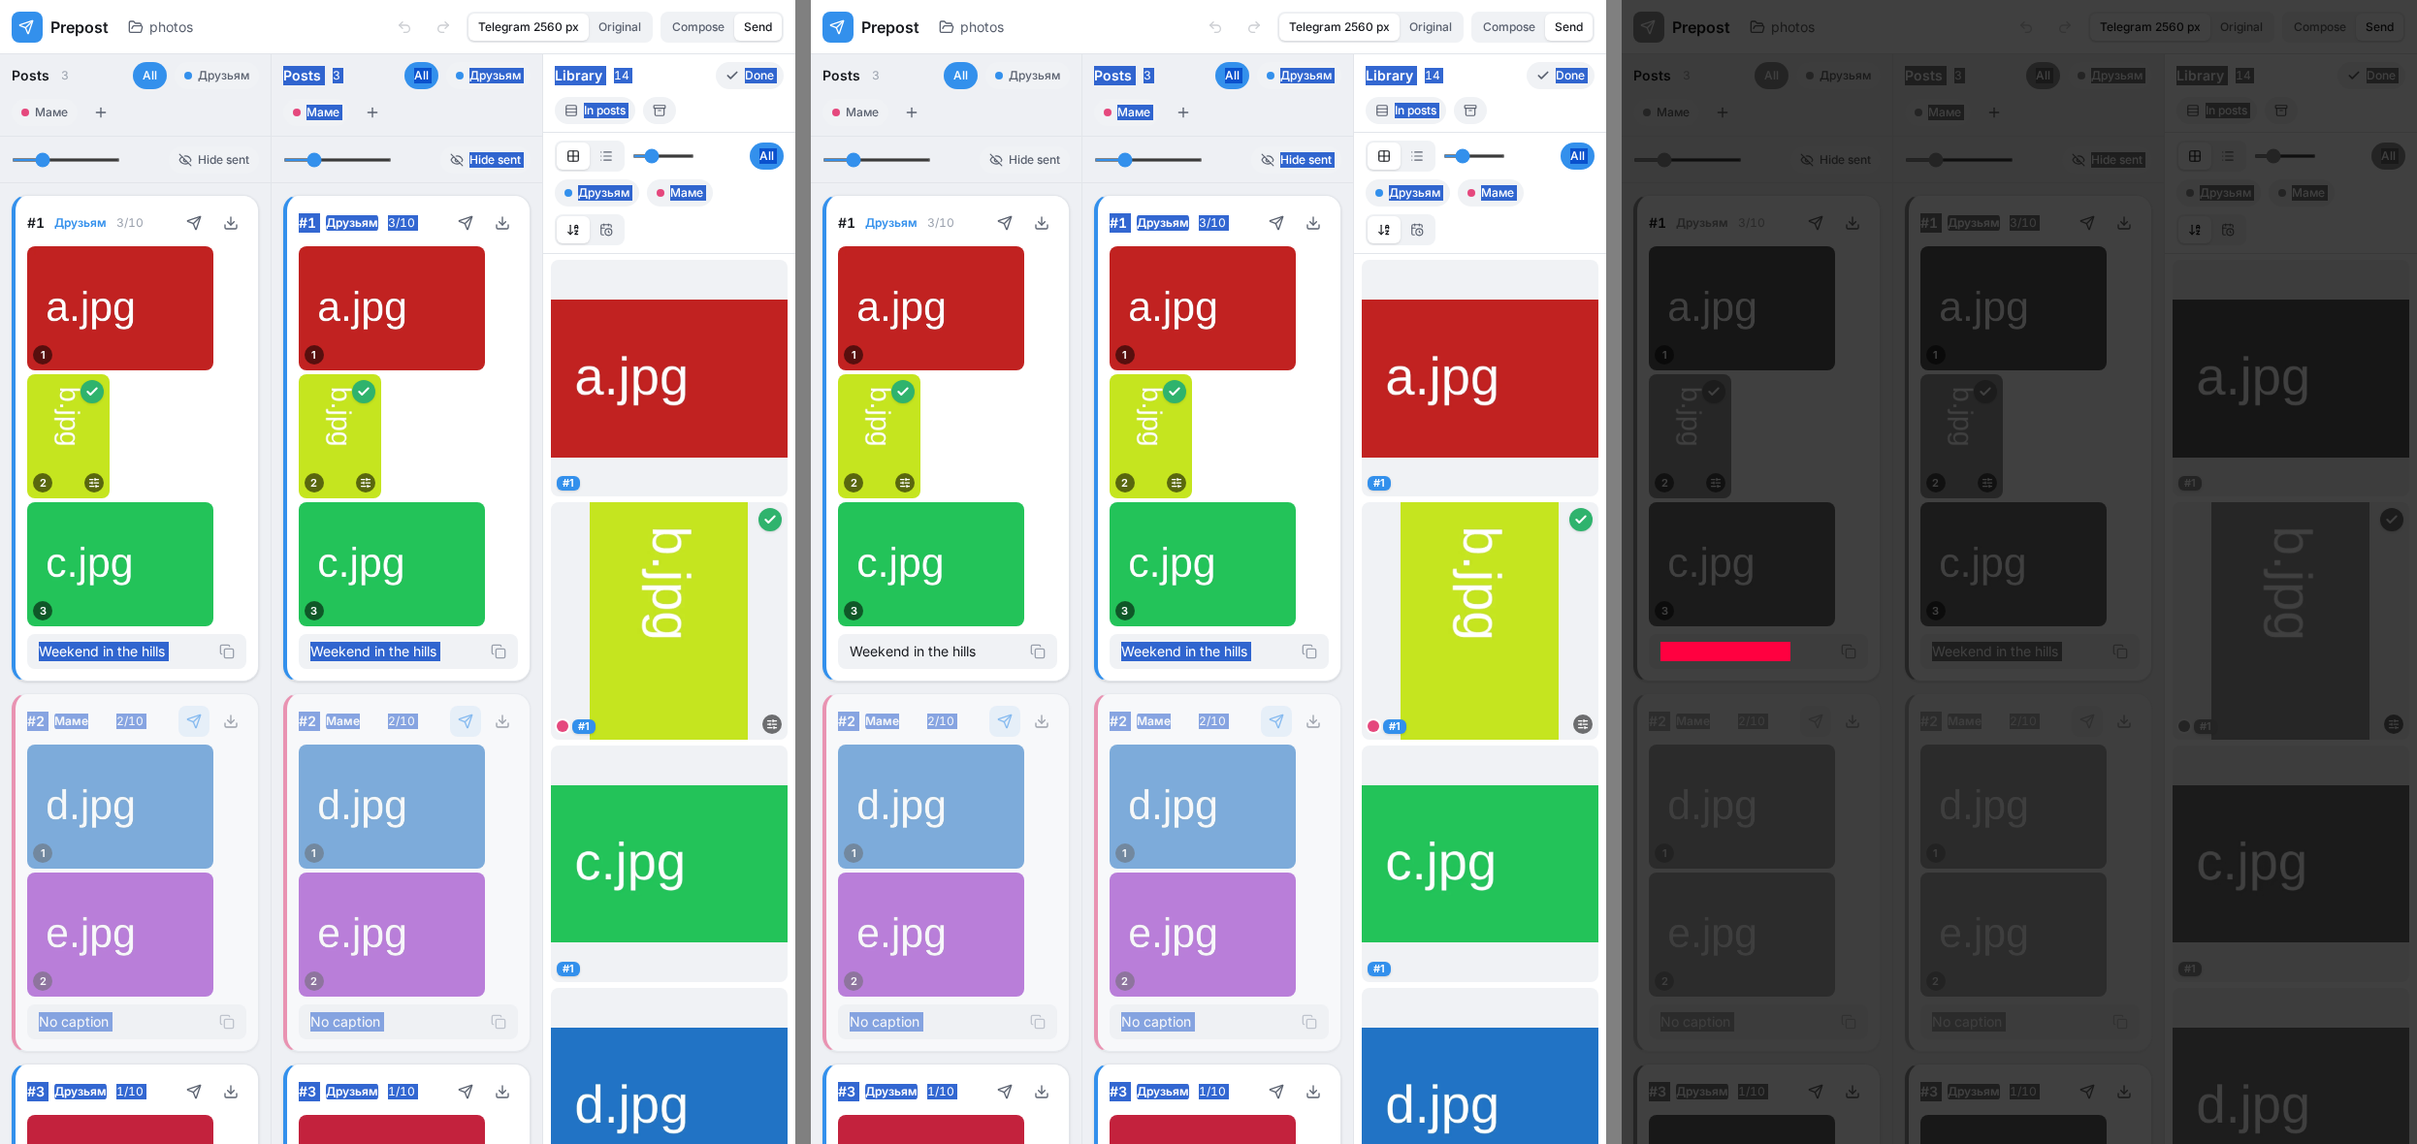
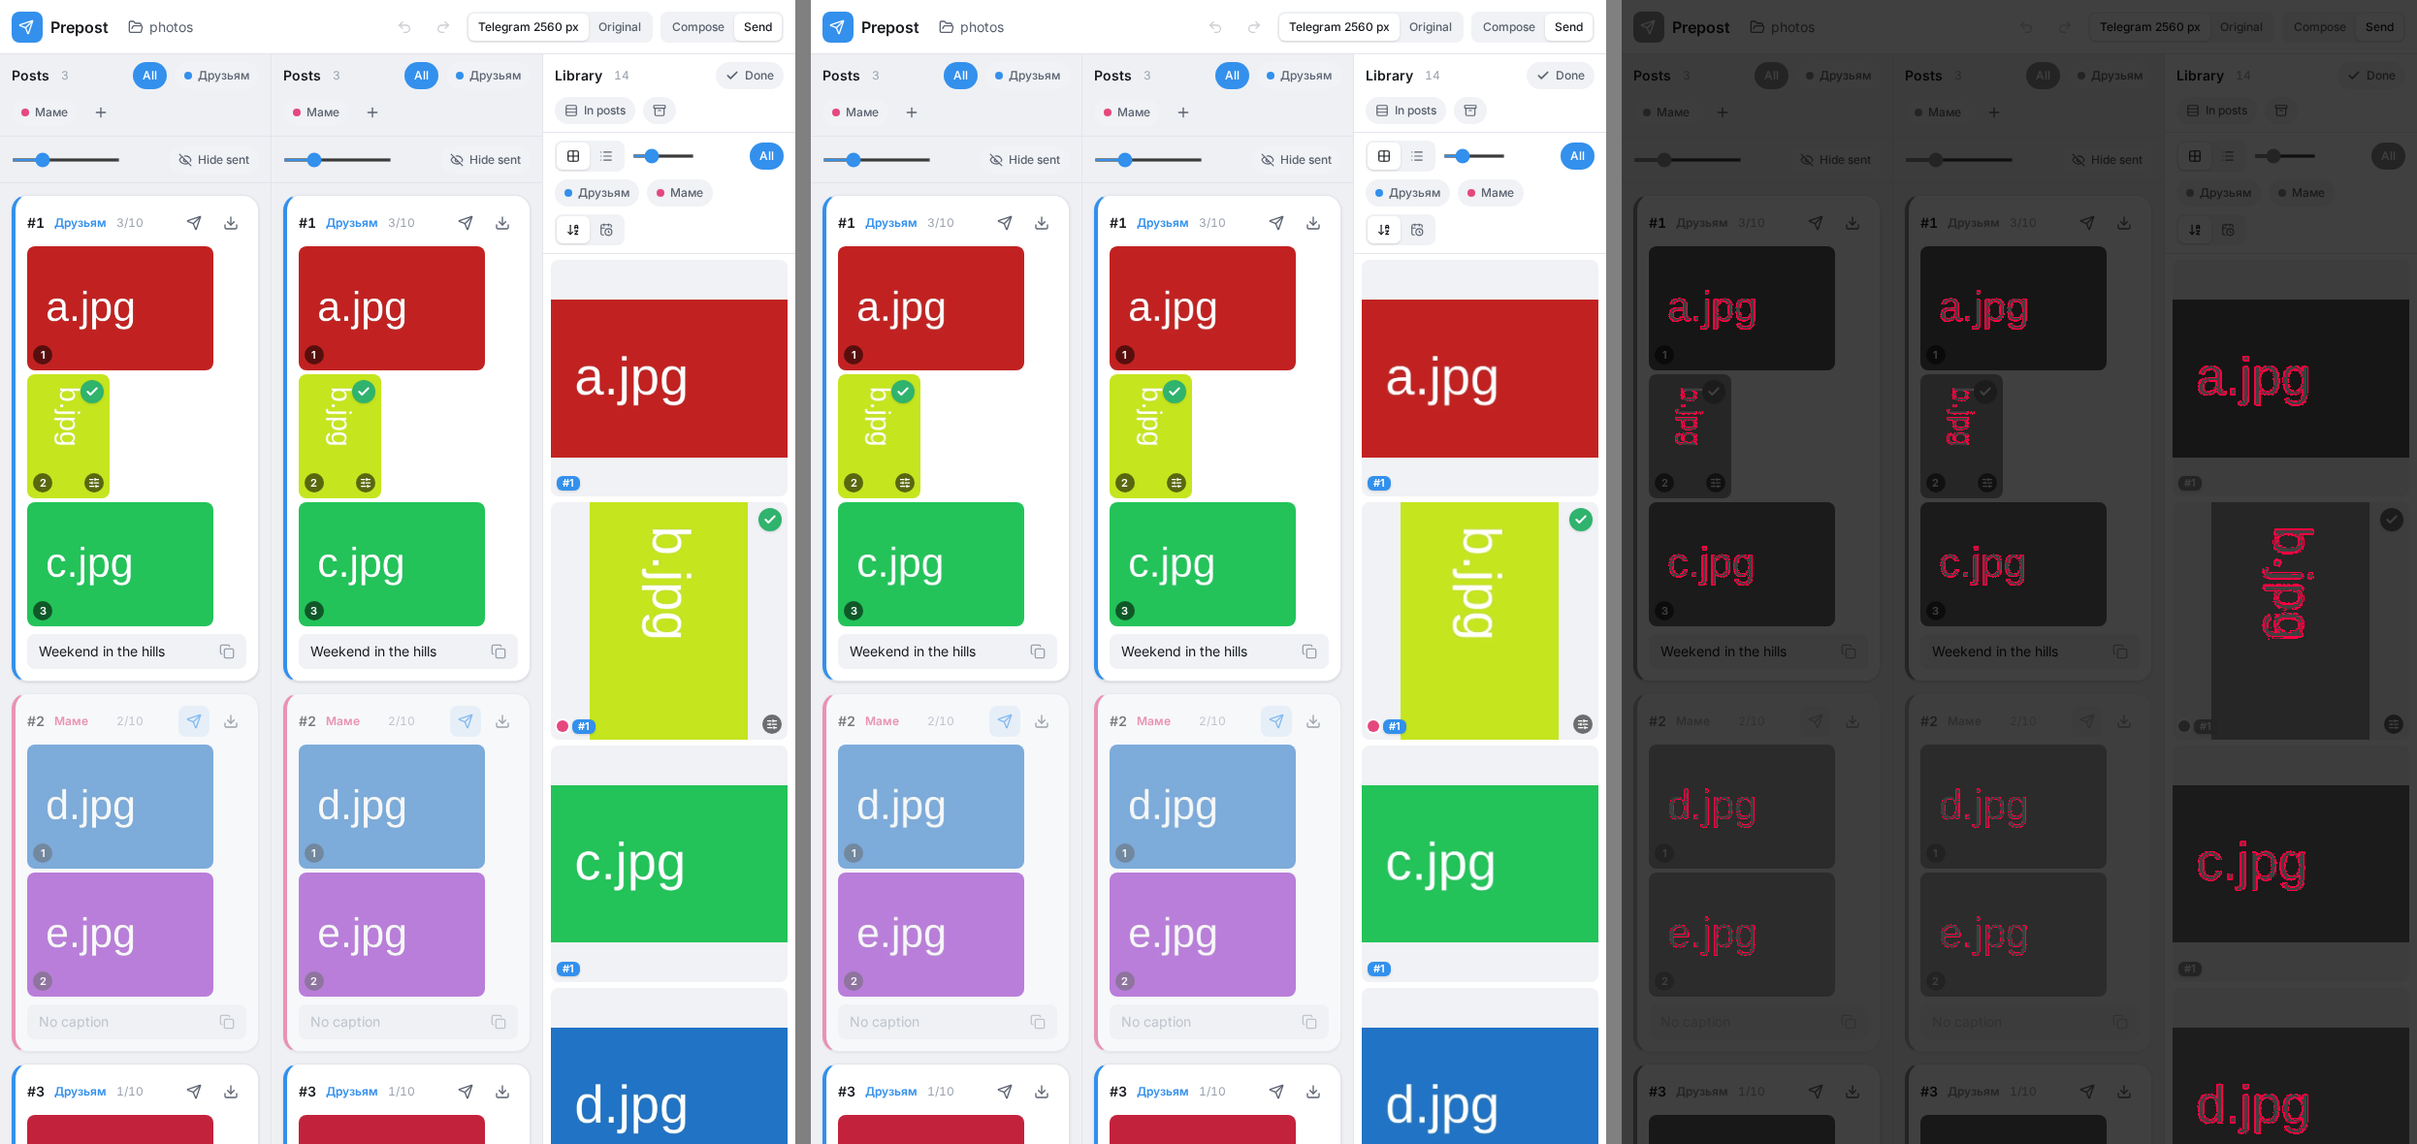
📝 Record the regressions' causes, the stress pass and the release build

diff --git a/docs/parity.md b/docs/parity.md
@@ -9,55 +9,95 @@ TGPREP_RUNS=5 node node_modules/@playwright/test/cli.js test -c tests/parity/pla
 
 Results land in `~/.cache/tgprep-parity/perf/*.md`.
 
-## Interactions (2592a8e)
+## Interactions
 
-| | TS | Rust |
-|---|---|---|
-| open folder → visible thumbnails (not cached) | 7004 / 7855 | 1870 / 2280 |
-| open folder → visible thumbnails (cached) | 210 / 263 | 176 / 244 |
-| scroll one screen → thumbnails | 26 / 31 | 31 / 61 |
-| drag pointer move → drop highlight | 11 / 16 | 11 / 17 |
-| viewer open → full-resolution frame | 340 / 562 | 359 / 628 |
-| edit slider → frame | 11 / 12 | 15 / 27 |
-| send mode click → photo copied | 266 / 317 | 274 / 320 |
+Before: 2592a8e, quiet machine, 5 runs. After: 5ebb927, 4 runs; other work kept the load average at 4–7, which is why TS's own numbers moved (its uncached open swung from 7 s to 27 s).
 
-- Open: TS mounts about 144 tiles in its first render (the virtualizer has no scroller size yet), queues all their thumbnails and pops them last-in first-out, so the visible ones finish last. Rust asks only for the tiles on screen, then reads ahead (8 screens below, 2 above, nearest first) with idle workers.
-- Scroll: TS's 144 accidental thumbnails cover the five scrolled screens; Rust has to have read them ahead (the harness waits 8 s after opening). Scrolling past what is prepared costs both builds the decode time (about 20 thumbnails a second on 4 workers).
-- Edit slider: the open question. Outside the harness (same profile, same sequence: scrolls, five viewer opens, then 12 slider steps) Rust finishes the input task in 0.5 ms and the next frame 5–17 ms later, like TS; inside the harness Rust's median is a frame longer with occasional 300–565 ms samples. Not explained yet.
+| | TS before | Rust before | TS after | Rust after |
+|---|---|---|---|---|
+| open folder → visible thumbnails (not cached) | 7004 / 7855 | 1870 / 2280 | 8419 / 27322 | 1638 / 2069 |
+| open folder → visible thumbnails (cached) | 210 / 263 | 176 / 244 | 190 / 255 | 158 / 226 |
+| scroll one screen → thumbnails | 26 / 31 | 31 / 61 | 25 / 33 | 27 / 31 |
+| drag pointer move → drop highlight | 11 / 16 | 11 / 17 | 12 / 17 | 11 / 16 |
+| viewer open → full-resolution frame | 340 / 562 | 359 / 628 | 372 / 462 | 373 / 578 |
+| edit slider → frame | 11 / 12 | 15 / 27 | 11 / 12 | 13 / 14 |
+| send mode click → photo copied | 266 / 317 | 274 / 320 | 267 / 324 | 339 / 441 |
+
+How the causes were found: Chrome traces (`Tracing` with `devtools.timeline`, `cc`, `gpu`) and CPU profiles of the same harness steps, with the wasm built with symbol names (`CARGO_PROFILE_WEB_STRIP=none`, then `wasm-bindgen --keep-debug` without `wasm-opt`).
+
+- Slider (fixed). A tile whose photo had just been edited showed an `animate-pulse` placeholder until the edited thumbnail rendered. While that animation ran, the compositor stayed subscribed to vsync, so each input waited for the next vsync before its frame (`BeginMainFrame` 7–13 ms after the input instead of 1–3 ms). The tile now keeps the base thumbnail until the edited one is ready. The 300–565 ms samples came from read-ahead (below). What is left is about 2 ms: the input task is 2.3 ms against React's 1.3 ms, and `Layerize` is 13 ms against 9 ms on the same DOM (2341 against 2370 nodes, same layer and backdrop-filter counts).
+- Read-ahead contention (scroll, slider spikes, viewer). The thumbnail workers' `createImageBitmap` decodes of 6000×4000 JPEGs (50–110 ms each) run on the renderer's shared `ThreadPoolForegroundWorker` threads (7 here), the same threads that decode visible thumbnails and rasterize tiles. TS had no background work by then. Read-ahead now uses at most two workers, waits while the viewer is open and runs only after a second without input (pointer press or drag, wheel, key, scroll). With that, the scroll row moved from 31 / 61 to 27 / 31. Under that load, one 86 ms `createObjectURL` call for an arriving read-ahead thumbnail also blocked a scroll frame.
+- Viewer open. With read-ahead out of the way, the same work remains in both builds. `texImage2D` of the 4096 px bitmap takes 64–105 ms in Rust and 84–214 ms in TS, and both show multi-second GPU-contention outliers (TS 2.7 s, Rust 1.6 s in one profiled run). Minimums are equal; the medians differ inside the noise of a loaded machine.
+- Send (open). The harness waits about 1.8 s for the toast between copies. That is idle long enough for read-ahead to resume, so up to two 6000×4000 decodes are in flight when the next copy click decodes its own full-resolution photo. On a quiet machine before these changes, read-ahead had finished by the time the harness reached send mode and the row matched TS. Options for this: cancel in-flight read-ahead on input by terminating the busy workers, or run read-ahead on one worker.
+- Rejected: decoding thumbnails with WebCodecs `ImageDecoder` at a DCT-scaled size. It decodes a smooth 280 KB synthetic JPEG 7× faster (10 ms against 72 ms), applies EXIF orientation and accepts only exact scale sizes. On a noisy 11.7 MB JPEG, closer to a camera file, four workers made 14–19 thumbnails a second against 14.8 with `createImageBitmap`, because Huffman decoding dominates.
 
 ## Load
 
-The welcome screen painted, measured from navigation start. First visit is a fresh context; second and third reload it (immutable assets from the HTTP cache, wasm compiled from Chrome's code cache).
+The welcome screen painted, measured from navigation start. First visit is a fresh context; second and third reload it (immutable assets from the HTTP cache, wasm compiled from Chrome's code cache). 5ebb927, 5 runs:
 
-| | TS | Rust | Rust `erase_components` |
-|---|---|---|---|
-| first visit | 222 / 239 | 190 / 200 | 193 / 205 |
-| second visit | 21 / 32 | 25 / 30 | 25 / 30 |
-| third visit | 28 / 30 | 29 / 31 | 20 / 30 |
-| first visit, 9 Mbit/s 60 ms | 291 / 299 | 452 / 458 | 426 / 432 |
-| second visit, 9 Mbit/s 60 ms | 82 / 88 | 85 / 91 | 83 / 84 |
-| third visit, 9 Mbit/s 60 ms | 77 / 84 | 85 / 93 | 94 / 96 |
+| | TS | Rust |
+|---|---|---|
+| first visit | 229 / 265 | 199 / 214 |
+| second visit | 21 / 51 | 19 / 37 |
+| third visit | 21 / 29 | 26 / 62 |
+| first visit, 9 Mbit/s 60 ms | 320 / 348 | 435 / 468 |
+| second visit, 9 Mbit/s 60 ms | 84 / 378 | 93 / 96 |
+| third visit, 9 Mbit/s 60 ms | 81 / 87 | 85 / 97 |
 
-Locally and on every cached visit Rust is as fast or faster (streaming compilation, immutable caching). A first visit over a 9 Mbit/s link is about 160 ms slower: the extra 200–230 KB of compressed wasm.
+Locally Rust is faster, because the wasm compiles while it streams. Over a 9 Mbit/s link a first visit is about 120 ms slower. That is the 198 KB of extra brotli bytes (about 175 ms at 9 Mbit/s), partly hidden by the TS bundle's longer parse.
 
-## Bundle (bytes as the server sends them)
+## Bundle (bytes as the server sends them, 5ebb927)
 
-| | TS | Rust | Rust `erase_components` |
-|---|---:|---:|---:|
-| wasm br | 0 | 329,474 | 299,195 |
-| js br | 114,458 | 13,716 | 13,716 |
-| total br | 123,438 | 350,317 | 320,039 |
-| total gzip | 142,905 | 449,985 | 410,012 |
-| total identity | 478,477 | 1,201,325 | 1,107,084 |
+| | TS | Rust |
+|---|---:|---:|
+| wasm br | 0 | 300,768 |
+| js br | 114,458 | 13,740 |
+| total br | 123,438 | 321,643 |
+| total gzip | 142,905 | 412,902 |
+| total identity | 478,477 | 1,113,144 |
 
-Main wasm (`tgprep_bg`) variants, raw / gzip 9 / brotli 11:
+`build.sh` now builds with `--cfg erase_components` (about 10% smaller wasm; no interaction row moved) and `--remap-path-prefix` for the cargo registry. Before the remap, the bundle carried absolute `/var/home/…/.cargo/registry` paths in panic locations.
+
+Main wasm (`tgprep_bg`) variants, raw / gzip 9 / brotli 11 (measured at 2592a8e):
 
 | build | raw | gzip | brotli |
 |---|---:|---:|---:|
-| `opt-level = "z"`, fat LTO, 1 CGU, `panic = "abort"`, `wasm-opt -Oz` (kept) | 1,032,434 | 409,303 | 316,354 |
+| `opt-level = "z"`, fat LTO, 1 CGU, `panic = "abort"`, `wasm-opt -Oz` | 1,032,434 | 409,303 | 316,354 |
 | same with `opt-level = "s"` | 1,223,167 | 456,501 | 337,873 |
-| `z` + `--cfg erase_components` | 938,186 | 369,512 | 285,915 |
+| `z` + `--cfg erase_components` (kept) | 938,186 | 369,512 | 285,915 |
 | `z` + `erase_components` + nightly `-Zbuild-std` `-Cpanic=immediate-abort` | 831,754 | 328,980 | 258,139 |
 | `wasm-opt` flag variants (`--converge`, `-Oz -Oz`, `--gufa`, `-Os`) | ±0.5% | | |
 
-twiggy: of the code, about 420 KB is Leptos/tachys/reactive_graph monomorphizations (view builders, `drop_in_place` for 881 types, closures), 140 KB the app, 37 KB serde_json (needed for byte-exact `.tgprep.json`), about 15 KB float formatting. Trimming dependencies would buy single-digit percent; `erase_components` buys 10% with no measurable cost here; the nightly build-std another 10% but pins a nightly toolchain.
+Where the optimized code goes (twiggy on `wasm-opt -Oz -g`, 1.02 MB of items): tgprep_web 22%, tachys 16%, core 15% (mostly `drop_in_place` and closure shims generated for Leptos view types), reactive_graph 13%, data 12% (Tailwind classes, SVG icons, both locales), serde_json 4% (needed for byte-exact `.tgprep.json`), alloc 4%, leptos 3%, hashbrown 2%. Leptos has no optional features left to switch off for CSR.
+
+Why the slow-link gap stays open:
+
+- Trimming dependencies buys single-digit percent.
+- Matching TS needs about 180 KB less brotli. That is roughly the whole Leptos runtime plus its view monomorphizations, so it means dropping the framework.
+- Splitting the bundle so the welcome screen paints before the rest loads needs Leptos `#[lazy]` with `wasm-split` post-processing (`cargo-leptos --split`). That pipeline is experimental. The first chunk would still carry the shared runtime (tachys, reactive_graph, core), so the estimated gain is 60–100 KB brotli, about 50–90 ms on this link.
+- Nightly `build-std` buys another 10% but pins a nightly toolchain.
+
+## Stress pass
+
+`tests/parity/stress.spec.ts` prepares 300 photos into 30 posts of 10 at 1366×768, 1600×1000 and 820×1180. Each run selects with Ctrl and Shift click, makes a new post from the selection, writes captions, reorders, edits in the viewer (rotate, exposure, straighten, crop), archives, then uses send mode and marks a post sent. After each state it saves a screenshot and fails on any of these:
+
+- page scroll;
+- a control outside the window that no scroller can reach;
+- a control clipped by its container;
+- cut text that is not an ellipsis;
+- a scroller that scrolls sideways.
+
+Scrollbars are shown (`--hide-scrollbars` off). It found two bugs, both also in TS, both fixed with failing-then-passing e2e tests:
+
+- At 820 px the post header was wider than the post. Delete post sat outside the card and the posts pane scrolled sideways. The actions now wrap as a group onto their own row.
+- After touching a slider in the edit panel, → moved to the next photo and the still-focused range input stepped too. The next photo got a 0.1° straighten and a crop.
+
+```
+TGPREP_URL=http://127.0.0.1:5179 node node_modules/@playwright/test/cli.js test -c tests/parity/playwright.config.ts stress
+```
+
+Screenshots land in `~/.cache/tgprep-parity/stress/<TGPREP_LABEL or rust>/`.
+
+## Screens
+
+`docs/parity/*.png` are TS | Rust | diff sheets, and `screens.tsv` the differing pixels. The 820 sheets differ by about 23% because the post actions wrap. The 1600 sheets differ by about 1% at glyph edges inside thumbnails, which are resampled from 512 px in Rust and 720 px in TS.

diff --git a/docs/rust.md b/docs/rust.md
@@ -17,12 +17,26 @@ CSR only: there is no server data (everything comes from the folder the browser 
 
 ```
 export PATH=$HOME/.cargo/bin:$PATH CARGO_TARGET_DIR=$HOME/.cache/tgprep-target RUSTC_WRAPPER=$HOME/.cargo/bin/sccache
-crates/web/build.sh            # writes dist/
+crates/web/build.sh            # writes dist/: wasm32 profile `web` (opt z, fat LTO, panic abort), --cfg erase_components, wasm-bindgen, wasm-opt -Oz, Tailwind, hashed names
 cargo build --release -p tgprep-server
-TGPREP_LISTEN=127.0.0.1:5180 TGPREP_CLIENT_DIR=dist target/release/tgprep-server
+TGPREP_LISTEN=127.0.0.1:5180 TGPREP_CLIENT_DIR=dist $CARGO_TARGET_DIR/release/tgprep-server
 ```
 
-`TGPREP_TLS_CERT` and `TGPREP_TLS_KEY` (PEM) switch the server to HTTPS; without them it serves plain HTTP. The server reads `dist` once at start, so restart it after a rebuild.
+Server environment:
+
+| variable | meaning |
+|---|---|
+| `TGPREP_LISTEN` | socket address to listen on, e.g. `0.0.0.0:443` |
+| `TGPREP_CLIENT_DIR` | the built `dist` directory, read once at start (restart after a rebuild) |
+| `TGPREP_TLS_CERT`, `TGPREP_TLS_KEY` | PEM certificate chain and private key; with both set the server speaks HTTPS, without them plain HTTP |
+
+The release binary is copied to `~/.cache/tgprep-release/tgprep-server` (built at the commit that added this line, together with `dist`). Run it with `dist` next to it:
+
+```
+TGPREP_LISTEN=0.0.0.0:443 TGPREP_CLIENT_DIR=/path/to/dist TGPREP_TLS_CERT=cert.pem TGPREP_TLS_KEY=key.pem ~/.cache/tgprep-release/tgprep-server
+```
+
+Profiling the wasm with function names: build with `CARGO_PROFILE_WEB_STRIP=none crates/web/build.sh`, then replace `dist/assets/tgprep_bg-*.wasm` with `wasm-bindgen --target web --no-typescript --keep-debug` output of `$CARGO_TARGET_DIR/wasm32-unknown-unknown/web/tgprep-web.wasm` (no `wasm-opt`); the JS glue is identical.
 
 ## Tests
 
@@ -34,10 +48,12 @@ TGPREP_LISTEN=127.0.0.1:5180 TGPREP_CLIENT_DIR=dist target/release/tgprep-server
 ## Deliberate differences
 
 - A commit that changes nothing adds no undo step (immer made a new doc for every `detach`).
-- An edited thumbnail that is still rendering shows the loading pulse instead of the broken-image icon.
+- An edited thumbnail that is still rendering shows the photo's previous thumbnail (TS showed the broken-image icon on the first edit). A running pulse there also kept Chromium's compositor on vsync and delayed every slider frame.
 - A worker joins the pool only after it posts `ready`; thumbnail responses from a folder opened before are dropped.
 - The drop target is resolved on every pointer move as well as every frame (the TS app resolved it only in the frame callback).
-- Thumbnails: visible tiles first (newest request first, as before); idle workers then read ahead 8 screens below and 2 above the library window, nearest first. TS read ahead only by accident (about 144 tiles mounted in its first render).
+- Thumbnails: visible tiles first (newest request first, as before), on all four workers. Then read-ahead, nearest first: 8 screens below and 2 above the library window, on at most two workers, not while the viewer is open, and only after a second without input. Read-ahead decodes share the renderer's image decode threads with what is on screen. TS read ahead only by accident (about 144 tiles mounted in its first render).
+- When the post header does not fit (820 px panes), its actions wrap to a row of their own; TS pushed Delete post outside the post and scrolled the pane sideways.
+- ←/→ in the viewer do not also step a focused slider; in TS the next photo got a 0.1° straighten after touching a slider.
 - Thumbnail size follows the largest tile on screen: 1.5 × the tile's short side (library cell, post tile height) × `devicePixelRatio`, rounded up to 256 px, at least 512, and it only grows; mounted tiles ask again when it grows. TS used a fixed 720 px, which a 24 rem library cell or a 20 rem post tile upscales on a 2x screen. The cache key includes the size.
 - A photo whose file cannot be read any more shows the broken-image icon; in TS its worker never came back to the pool, so after four such files no thumbnail was made.
 - Geometry uses exact doubles; Chromium's DOMMatrix has about 1e-8 of float noise (fixture tolerance 1e-6).
@@ -52,13 +68,9 @@ TGPREP_LISTEN=127.0.0.1:5180 TGPREP_CLIENT_DIR=dist target/release/tgprep-server
 
 ## Status (2026-11-15)
 
-Done: model, server, worker, full UI, TS app removed; fmt, host and wasm clippy and `cargo test --workspace` clean at 607a6c6 (rerun them after later changes); e2e 10/10 (×3); perf harness and `docs/parity.md`.
+Done: model, server, worker, full UI, TS app removed. Measured against TS (see `docs/parity.md`) and stress-tested with 300 photos into 30 posts at 1366×768, 1600×1000 and 820×1180 (`tests/parity/stress.spec.ts`). At 5ebb927, fmt, host and wasm clippy, `cargo test --workspace` and the e2e suite (15 tests) pass.
 
-The sub-threshold text-selection bug reported earlier does not exist: the parity script pressed `g.jpg` at y = 1734 in an 1180 px tall viewport (on `<html>`) and dragged a plain text selection; `screens.spec.ts` now scrolls the tile into view, and an e2e test guards that dragging a photo over text selects nothing.
-
-Next:
-1. Edit slider is a frame slower than TS inside the perf harness only (see `docs/parity.md`); find out why before deciding anything on it.
-2. Decide on `--cfg erase_components` (10% smaller wasm, no measured cost) and wire it into `build.sh` if kept; the nightly build-std option is listed in `docs/parity.md`.
-3. Stress pass: script 300 photos into 30 posts (drag, reorder, captions, edits, archive, send) and check fit at 1366×768, 1600×1000, 820×1180.
-4. Rerun the parity screens for both builds (`screens.spec.ts` changed: the 820 drag is now a real drag).
-5. Release `dist`, release server binary copied out of the target dir, delete the target dir.
+Open:
+1. Send-mode copy is slower than TS when read-ahead resumes during the pause before a click (see `docs/parity.md`).
+2. The edit slider frame is about 2 ms slower than TS.
+3. A first visit over a slow link is about 120 ms slower, because of the wasm size.
